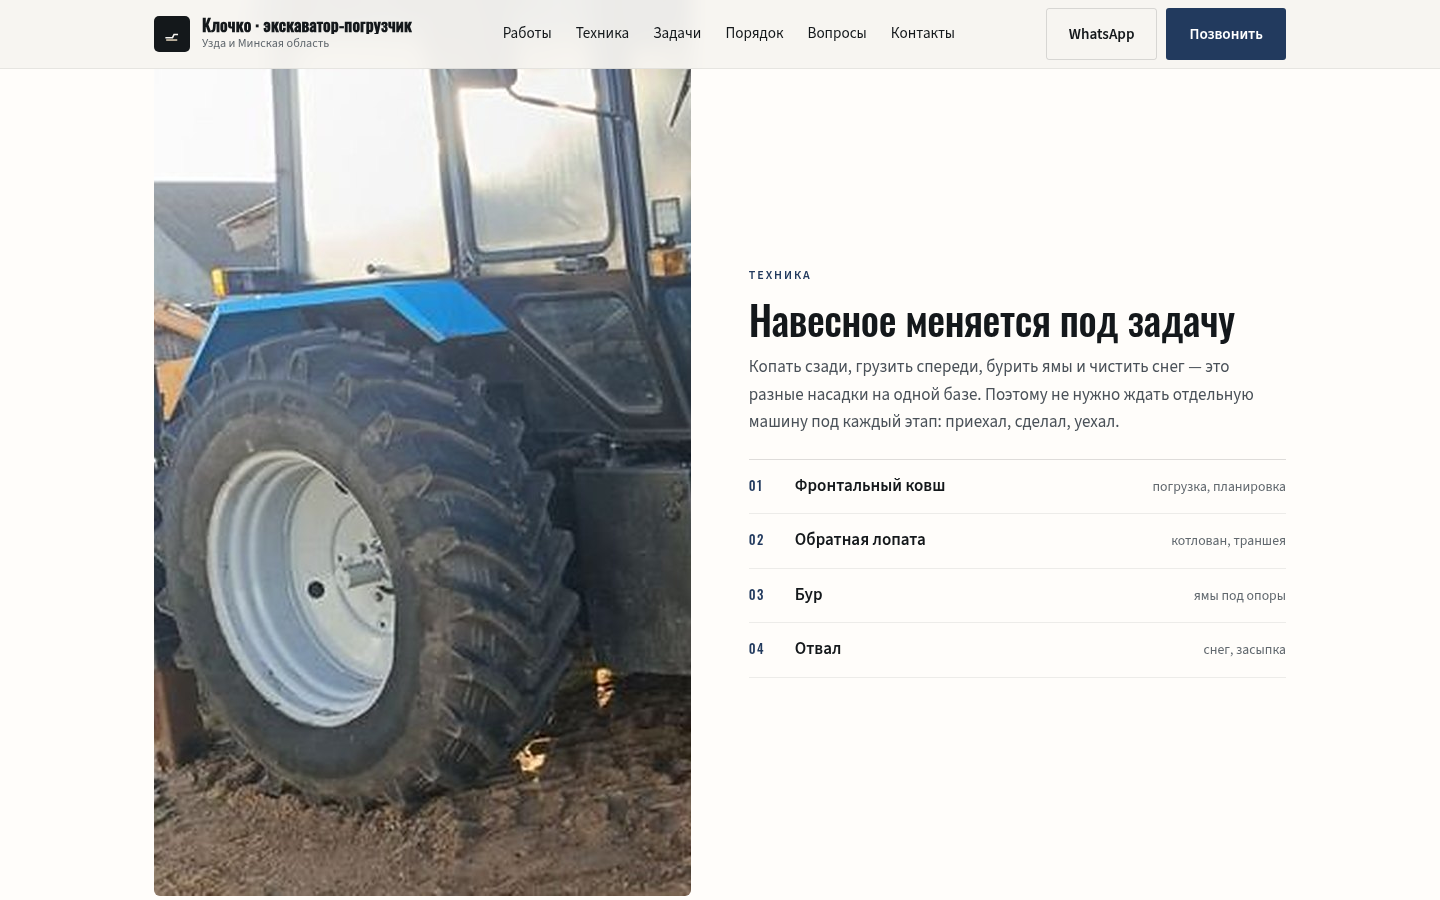
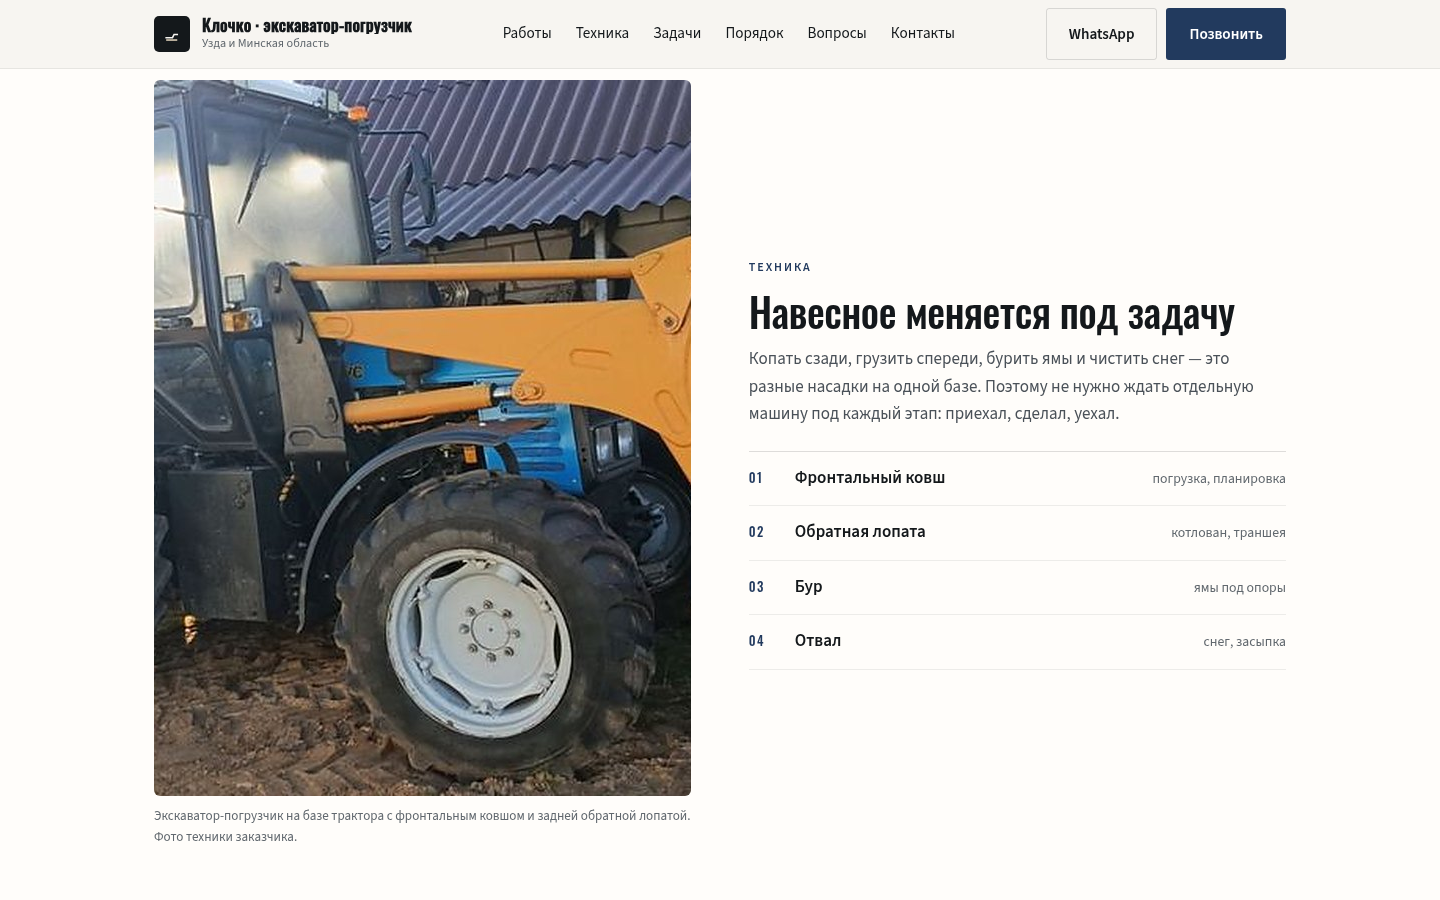
docs: записка проекта и журнал архетипов

diff --git a/01-artifacts.md b/01-artifacts.md
@@ -1,0 +1,42 @@
+# ИП Клочко А. А. — экскаватор-погрузчик, Узда
+
+**Ссылка:** https://romjjjke.github.io/klochko-exkavator-uzda/
+**Архетип:** 36 «фото во весь экран» (full-bleed photograph hero)
+
+## 1. Позиционирование
+Одна машина, которая копает, грузит, бурит и чистит снег — вместо трёх подрядчиков и трёх звонков.
+
+## 2. Дизайн-тезис
+Сайт должен показать саму машину, а не абстрактный «строительный» фон: у заказчика есть настоящее фото
+экскаватора-погрузчика на базе МТЗ, и это главный аргумент доверия. Поэтому первый экран — фотография
+во весь экран под тёмным скримом, крупная антиква-кондензед в заголовке, под ней полоса из четырёх работ.
+Остальные блоки — бумажные, редакционные, с линейками вместо карточек.
+
+## 3. Референсы
+- **Спецтехника в Беларуси (kufar-объявления).** Берём: реальное фото машины и честный список работ. Не берём: водяные знаки, кривые фото и текст «недорого».
+- **Аренда техники в Польше/Литве (np. wynajem koparek).** Берём: структуру «услуги → машина → порядок → расчёт». Не берём: калькуляторы с выдуманными ставками за час.
+- **Редакционные лендинги инженерных бюро.** Берём: асимметрию 7/5, тонкие линейки, набор цифр табличными. Не берём: стерильную бело-серую пустоту без фотографии.
+
+## 4. Токены
+- Кегли: 12 / 14 / 17 / 19 / 24 / 40 / 70 px (отношение заголовок/текст ≈ 4,1×).
+- Отступы: 4 / 8 / 12 / 18 / 26 / 44 / 72 / 104 px.
+- Сетка: 1220, асимметрия 7/5, полоса четырёх фактов 4×1fr.
+- Палитра: бумага #f6f4f0, бумага-2 #fffdfa, чернила #14181b, военно-морской #223a5e, песок #d9cbb4 / #efe7d9.
+- Радиусы: 3–6 px. Тени: нет, только hairline 1 px 7,5–14%.
+- Тайминги: 180 / 200 / 220 / 260 мс, easing cubic-bezier(.16,1,.3,1); Ken Burns 26 с только на transform.
+
+## 5. Блоки (10)
+1. Топбар: город, расчёт, телефон.
+2. Шапка: логотип, навигация, WhatsApp, звонок.
+3. Герой: фото машины во весь экран, h1, лид, две кнопки.
+4. Полоса четырёх работ поверх фото.
+5. Шесть услуг с примерами «чаще заказывают».
+6. Техника: фото + четыре навесных (ковш, обратная лопата, бур, отвал).
+7. Шесть типовых задач.
+8. Четыре шага работы.
+9. Расчёт и оплата + справка (нал/безнал, организации, стоимость индивидуально).
+10. Шесть вопросов, контакты на тёмном, подвал.
+
+## 6. Проверки
+CLS 0,0325; ширины 320–1440 без переполнения; контраст 5,15–11,44:1; шрифты свои (69 КБ); фото 190 КБ,
+кадрировано из исходника 920×519 с обрезкой нижней полосы, где был водяной знак.
